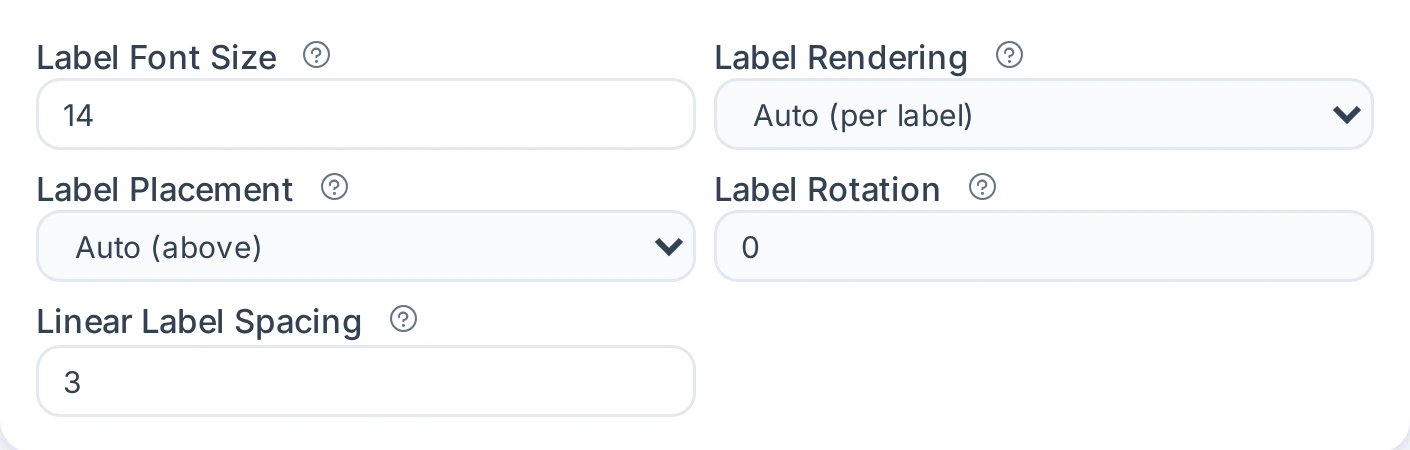
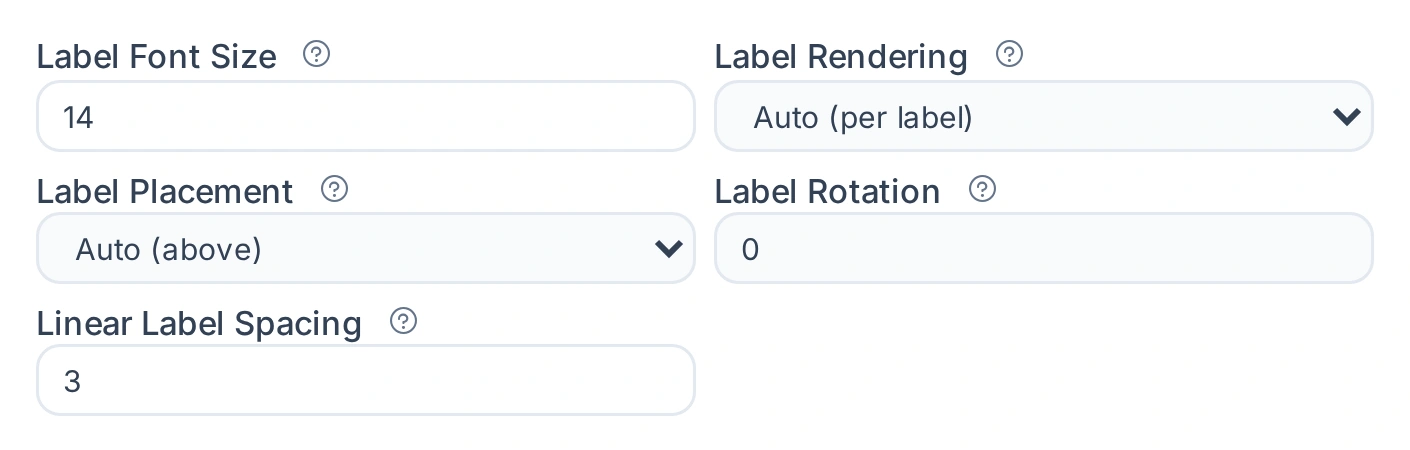
Show label text settings while a feature label is On
Labels set On in a feature popup are drawn while Show Labels (Linear) or
Label Mode (Circular) is None, but Label Font Size, Label Rendering, the
placement, rotation, and spacing settings were hidden in that state, so
the Vibrio tutorial had to switch Show Labels to All Records and back to
reach Label Font Size. Per the Owner's decision of 2026-10-09 (OV-222),
the Labels panel now shows its text settings grid when the label scope
is not None or any feature of the shown drawing has Label visibility On.
Label filtering, qualifier priority, and circular label geometry keep
their visibility.

The Vibrio step "Enlarge the labels" sets Label Font Size directly, and
its screenshot is recaptured without the Show Labels detour.

diff --git a/gbdraw/web/index.html b/gbdraw/web/index.html
@@ -4272,10 +4272,8 @@
                                 </select>
                             </div>
 
-                            <div
-                                v-if="(mode === 'linear' && form.show_labels_linear !== 'none') || (mode === 'circular' && form.labels_mode !== 'none')"
-                                class="space-y-3"
-                            >
+                            <div v-if="labelTextSettingsShown" class="space-y-3">
+                                <template v-if="(mode === 'linear' ? form.show_labels_linear : form.labels_mode) !== 'none'">
                                 <div>
                                     <h4 class="group-heading mb-2" aria-label="LABEL FILTERING">LABEL FILTERING <help-tip text="Control which feature labels are displayed using Blacklist or Whitelist. Whitelist patterns use case-insensitive Python regex search, matching the -t color table semantics."></help-tip></h4>
                                     <div class="flex gap-2 mb-2">
@@ -4328,6 +4326,7 @@
                                     <div class="ui-hint text-center mb-1">- OR UPLOAD FILE -</div>
                                     <file-uploader label="Priority File (TSV)" v-model="files.qualifier_priority" :after-change="waitForAuxiliaryFileImport" accept=".tsv,.tab,.txt,text/tab-separated-values,text/plain,text/*" :small="true"></file-uploader>
                                 </div>
+                                </template>
 
                                 <div class="pt-3 border-t border-slate-100">
                                     <div class="grid grid-cols-2 gap-1.5">
@@ -4434,7 +4433,7 @@
                                     </div>
                                 </div>
 
-                                <div v-if="mode === 'circular' && adv.circular_label_placement !== 'radial'" class="pt-3 border-t border-slate-100">
+                                <div v-if="mode === 'circular' && form.labels_mode !== 'none' && adv.circular_label_placement !== 'radial'" class="pt-3 border-t border-slate-100">
                                     <h4 class="group-heading mb-2" aria-label="LABEL GEOMETRY">LABEL GEOMETRY <help-tip text="Adjust radius offset factors for circular labels."></help-tip></h4>
                                     <div class="grid grid-cols-2 gap-1.5">
                                         <div>
@@ -4467,8 +4466,8 @@
                                 </div>
                             </div>
 
-                            <p v-else class="ui-hint bg-slate-50 border border-slate-200 rounded p-2">
-                                Enable labels to configure filtering, qualifier priority, text settings, and circular label geometry.
+                            <p v-if="(mode === 'linear' ? form.show_labels_linear : form.labels_mode) === 'none'" class="ui-hint bg-slate-50 border border-slate-200 rounded p-2">
+                                Enable labels to configure filtering, qualifier priority, text settings, and circular label geometry. Text settings also show while a feature's Label visibility is On.
                             </p>
                         </div>
                     </details>

diff --git a/gbdraw/web/js/app/app-setup.js b/gbdraw/web/js/app/app-setup.js
@@ -16,6 +16,7 @@ import {
 } from '../services/feature-visibility.js';
 import { isLegendOrderEdited } from '../services/legend-svg.js';
 import { admitFeatureCatalog } from '../services/feature-catalog.js';
+import { labelTextSettingsVisible } from '../services/feature-placement.js';
 import { createDefaultLosatpHitLimits } from '../services/session-active-config-contract.js';
 import { createRecordDisplayControls } from './record-display-options.js';
 import { isCurrentFeature } from '../services/feature-identity.js';
@@ -5256,6 +5257,12 @@ export const createAppSetup = () => {
     });
   };
 
+  const labelTextSettingsShown = computed(() => {
+    const drawing = state.activeDrawing();
+    const scope = mode.value === 'linear' ? drawing.form.show_labels_linear : drawing.form.labels_mode;
+    return labelTextSettingsVisible(scope, drawing.featureOverrides);
+  });
+
   // The template's names for the members of the shown mode's drawing: a ref
   // member reads and writes its value, any other member is the object itself.
   /** @param {keyof DrawingState} key */
@@ -5861,6 +5868,7 @@ export const createAppSetup = () => {
     featureVisibilityManualRules: drawingMember('featureVisibilityManualRules'),
     featureVisibilityRules: drawingMember('featureVisibilityRules'),
     featureOverrides: drawingMember('featureOverrides'),
+    labelTextSettingsShown,
     featureStrokeOverrides: drawingMember('featureStrokeOverrides'),
     addFeatureVisibilityRule: addFeatureVisibilityRuleWithHistory,
     downloadFeatureVisibilityRulesTsv,

diff --git a/gbdraw/web/js/services/feature-placement.js b/gbdraw/web/js/services/feature-placement.js
@@ -290,6 +290,18 @@ export const requestFeatureOverrides = (overrides, records = [], { bulkLabelText
   ).map(({ labelSourceText: _source, ...row }) => row);
 };
 
+// Whether the Labels panel shows its label text settings (font size, rendering,
+// placement, rotation, spacing): while Show Labels (Linear) or Label Mode
+// (Circular), `scope`, is not None, or while a feature of the drawing has Label
+// visibility On (Owner decision 2026-10-09).
+/**
+ * @param {string} scope
+ * @param {FeatureOverrideDraft | null | undefined} overrides
+ */
+export const labelTextSettingsVisible = (scope, overrides) => (
+  scope !== 'none' || Object.values(overrides || {}).some((row) => row?.labelVisibility === 'on')
+);
+
 /** @param {FeatureIdentity} identity */
 const emptyOverrideRow = ({ recordKey, biologicalFeatureId }) => ({
   recordKey,
